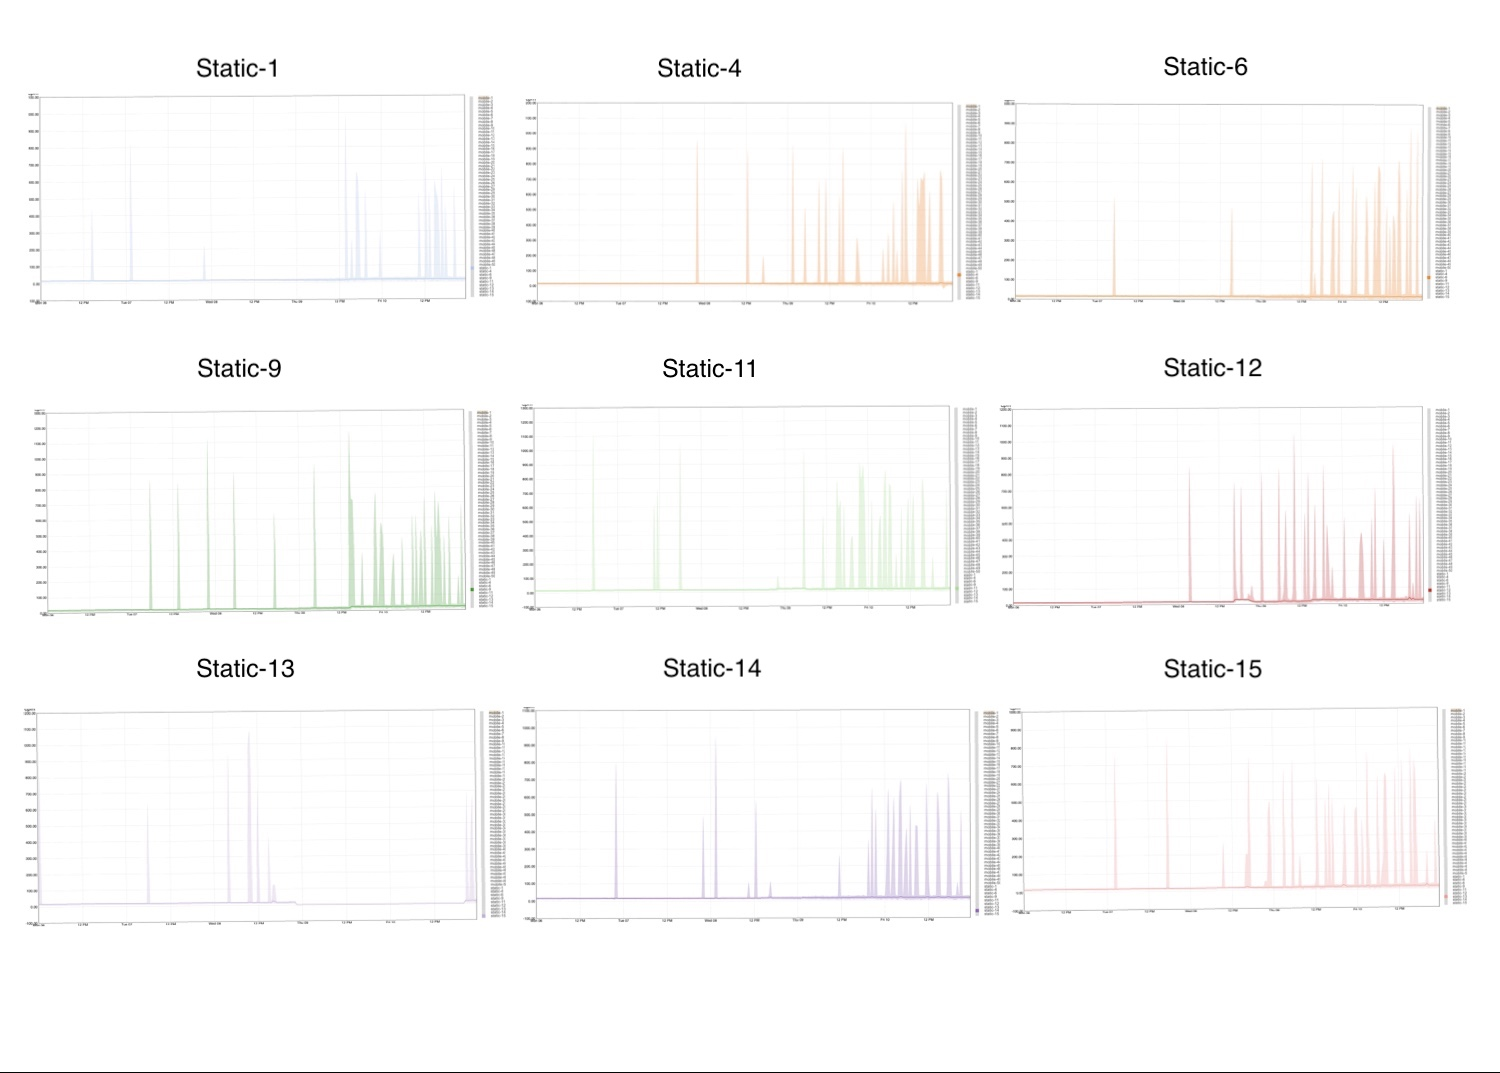
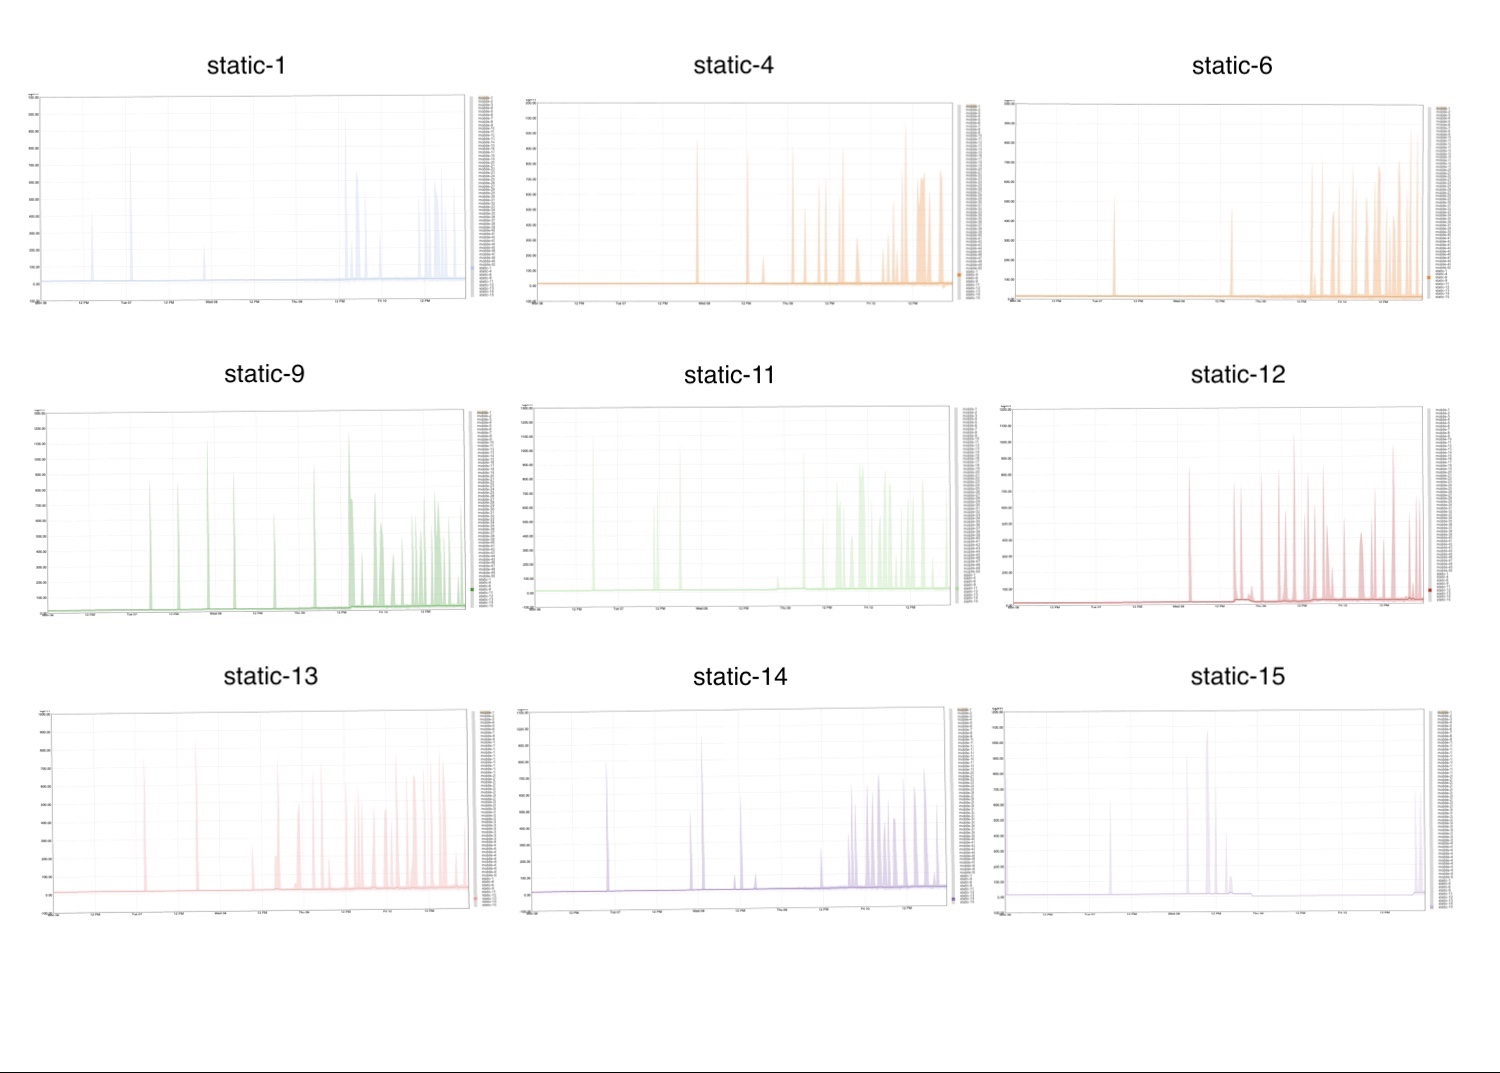
report update

diff --git a/TTU-Jian-MC2/index.htm b/TTU-Jian-MC2/index.htm
@@ -36,7 +36,7 @@
 
         <h4>Video</h4>
         <span>
-            <a href="https://idatavisualizationlab.github.io/N/VAST19/mc2/video.html">https://idatavisualizationlab.github.io/N/VAST19/mc2/video.html</a>
+            <a href="https://idatavisualizationlab.github.io/VAST19_mc2/report.html">https://idatavisualizationlab.github.io/VAST19_mc2/report.html</a>
         </span>
         <br><br>
         <hr>
@@ -87,8 +87,8 @@
          <p class="caption"><span>Figure 3. Overview of static sensor readings.</span></p>
          <div>
              Figure 3 shows readings from all 9 static sensors over the entire time span. A pattern can be detected that all static sensors except static-13 tend to have
-             high readings
-
+             clustered high readings around 3pm on April 9th until the end of April 10th. Which indicates that they constantly detected radiation during that period. On the
+             contraty, static sensor 15 almost has no readings at all during this period. We will look into this in the next question.
 
          </div>
      </div>
@@ -97,10 +97,10 @@
 
 <page size="A3">
      <div class="pageContent">
-         <img id="radarChart" src="images/f_1_3.png" class="full">
-         <p class="caption"><span>Figure 5. Sensor readings for Old Town.</span></p> 
+         <!--<img id="radarChart" src="images/f_1_3.png" class="full">-->
+         <!--<p class="caption"><span>Figure 5. Sensor readings for Old Town.</span></p> -->
 
-         <div> Figure 5 is an example when Old Town is selected. The arrow points to 4pm on Wed 08 with the high readings of the dynamic sensor 10. <br><br></div>
+         <!--<div> Figure 5 is an example when Old Town is selected. The arrow points to 4pm on Wed 08 with the high readings of the dynamic sensor 10. <br><br></div>-->
     
 
         <div class="question">2 - Use visual analytics to represent and analyze uncertainty in the measurement of radiation across the city. <br>
@@ -109,11 +109,30 @@ b. Which regions of the city have greater uncertainty of radiation measurement? 
 c. What effects do you see in the sensor readings after the earthquake and other major events? What effect do these events have on uncertainty?<br>
         </div>
 
-        <img id="radarChart" src="images/f_2_1.png" class="full">
-         <p class="caption"><span>Figure 6. Overview of all sensors by every hour.</span></p> 
-        <div> To show the uncertainty in the data, we refine the Rosemary chart to show min vs. max (at the bottom) and Q1 vs. Q3 (on the top). As shown in Figure 6, 50 dynamic sensors are listed on the top and statics and 8 static sensors are listed at the bottom, the thumbnails next to the sensor ids summarize the sensor reading over the entire time span. The larger bands indicate a higher variance in the sensors reading over the given period of time. The static sensors tend to be more reliable than the dynamic sensors by looking at the thumbnails or the time series charts. A group of high values and high variances sensors are highlighted in the red box on the left.<br><br> 
+        <img id="stat-13" src="images/f_2_1.png" class="full">
+         <p class="caption"><span>Figure 4. Comparison between static-13 and static-15.</span></p>
+        <div>
+            As described above, there is contrary readings between static-13 and static-15. We can see in figure 4 that static-13 is the sensor that
+            is closest to the nuclear plant among all the 9 static sensors. If there is a radiation leak, this sensor should be the first to detect it.
+            However, compared to static-15,the second closest static sensor to the nuclear plant, its reading is abnormal. The readings of static-13
+            during the period when radiation level is mostly detected by other sensors are missing. Therefore, static-13 is too uncertain to trust.
 
-        </div> 
+
+        </div>
+
+         <img id="stat-11" src="images/f_2_3.png" class="full">
+         <p class="caption"><span>Figure 5. Comparison between static-11 and other mobile sensors in region 9.</span></p>
+         <div>
+             Figure 5 shows a discrepancy between static-11 and other mobile sensors in region 9 Broadview. Static-11 shows frequent high reading values
+             from April 9th to the end of April 10th, while there are not enough mobile sensors agree with it.  The only available readings during
+             this period from the mobile sensors is mobile-26, however, the readings are all the same value. Given the commonsense that the sensor detector
+             may be affected by many factors, including the condition of the car, the road and the weather, etc., the readings could not stay the same for hours.
+             Therefore, without additional static or mobile sensor readings, it is hard to tell if static-11's reading is reliable or not. Thus, region 9
+             has greater uncertainty ot radiation measurement.
+
+
+         </div>
+
     </div>     
 </page>
 
